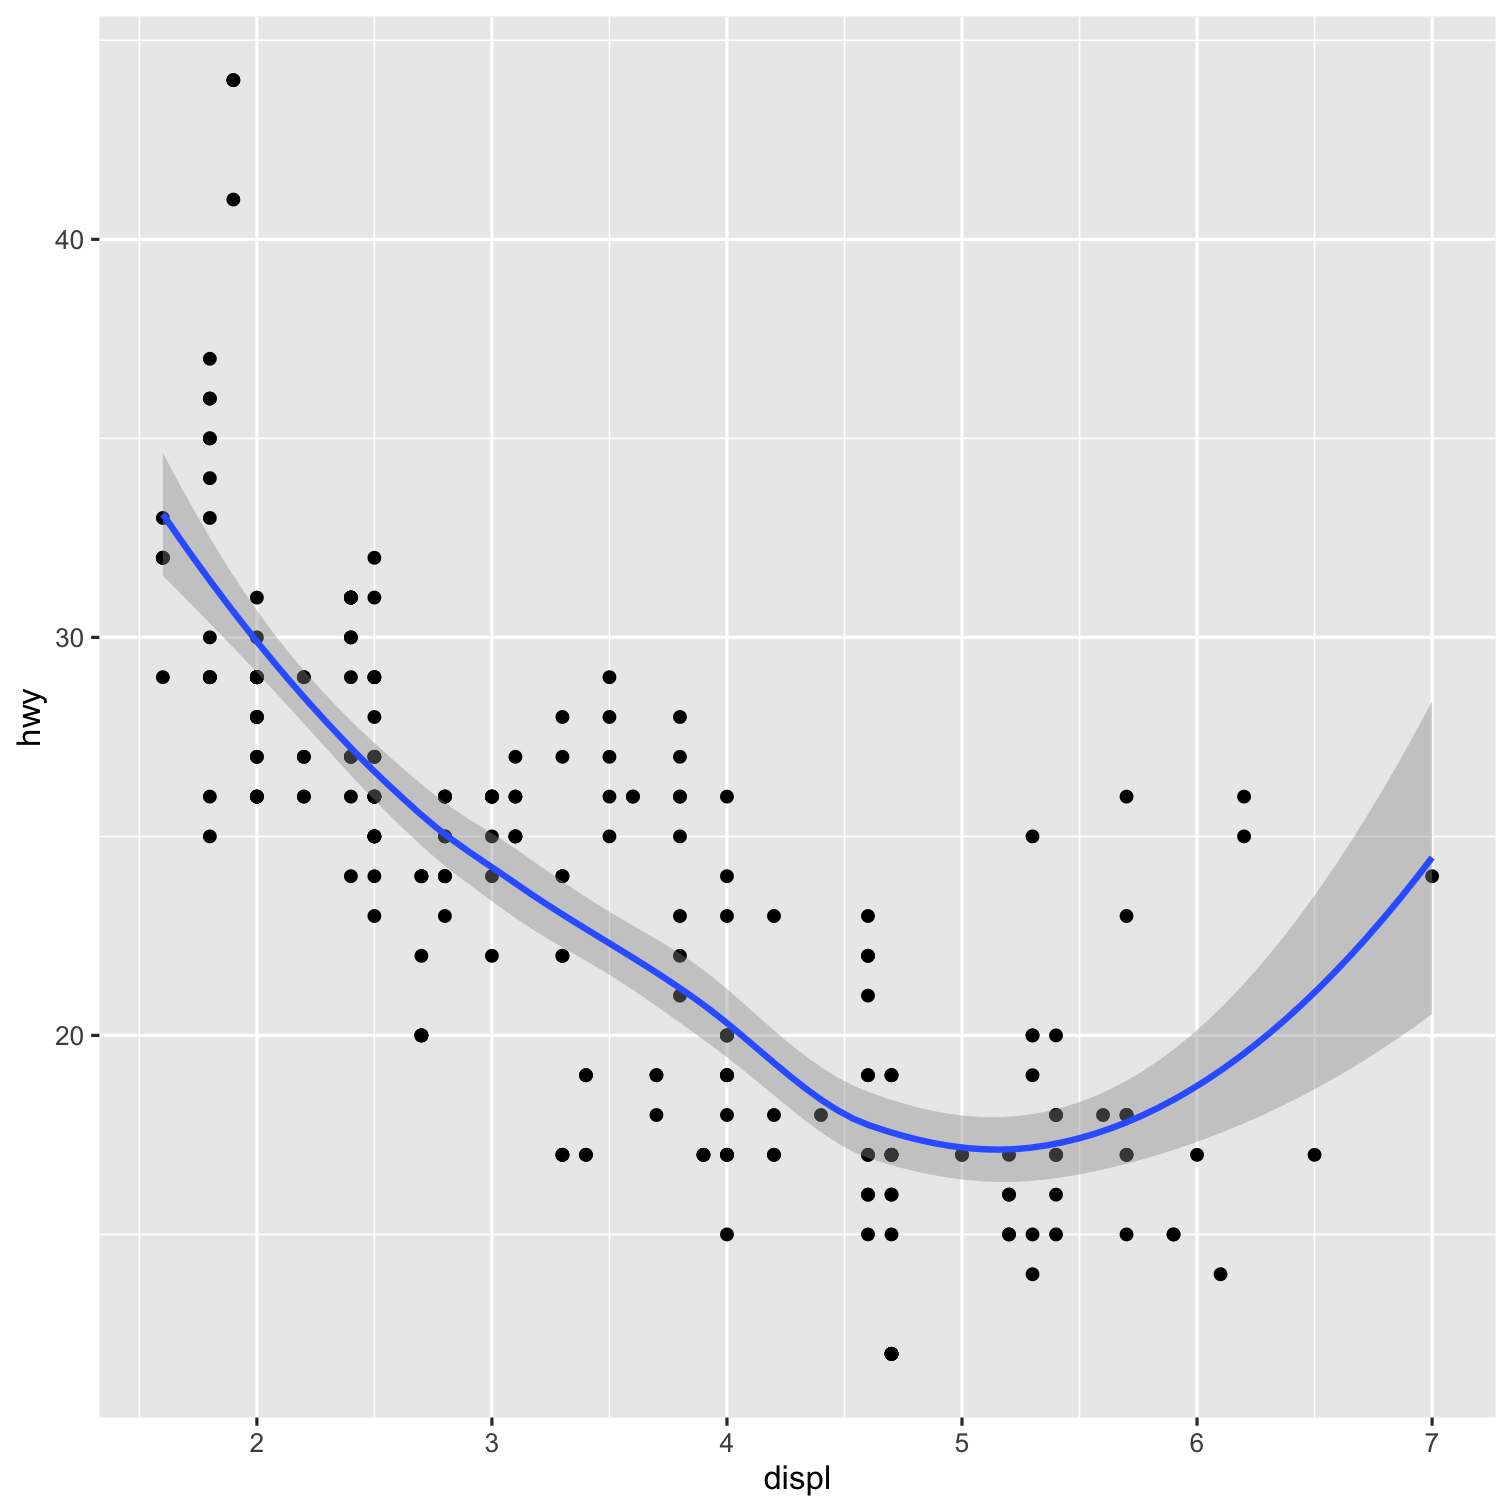
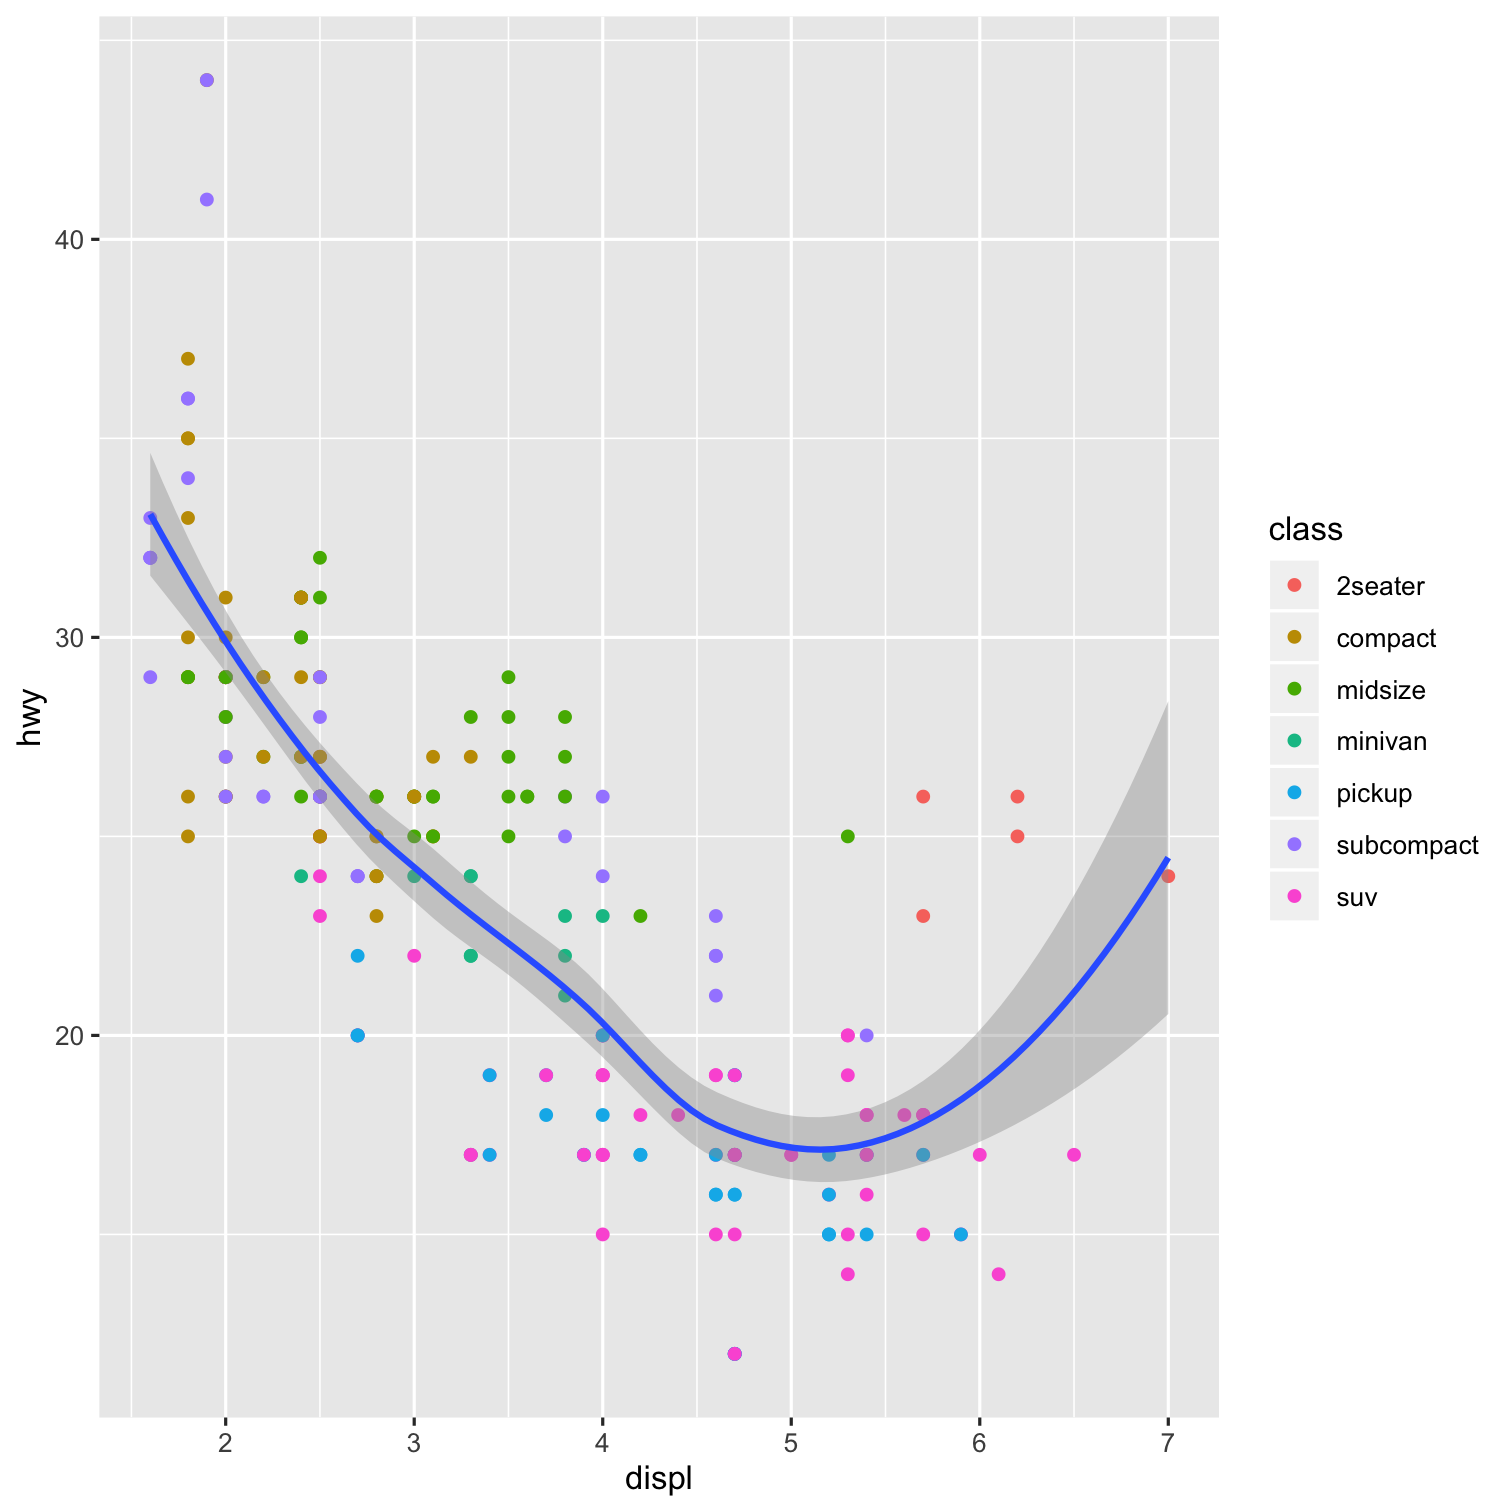
Rescale slide images

diff --git a/static/slides/04-slides.html b/static/slides/04-slides.html
@@ -465,6 +465,27 @@ ggplot(data = mpg)
 .right-plot[
 **Aesthetics** map data to visual elements or parameters
 
+.center[
+![:scale 90%](https://www.dropbox.com/s/e1nvb7x330c7ruk/aes2.png?raw=1)
+]
+]
+
+---
+
+# The Grammar of Graphics (gg): Aesthetics III
+
+.left-code[
+### Data
+### Aesthetics
+
+```r
++ aes()
+```
+]
+
+.right-plot[
+**Aesthetics** map data to visual elements or parameters
+
 - `displ`
 
 - `hwy`
@@ -475,7 +496,7 @@ ggplot(data = mpg)
 
 ---
 
-# The Grammar of Graphics (gg): Aesthetics II
+# The Grammar of Graphics (gg): Aesthetics III
 
 .left-code[
 ### Data
@@ -499,27 +520,7 @@ ggplot(data = mpg)
 
 ---
 
-# The Grammar of Graphics (gg): Aesthetics II
-
-.left-code[
-### Data
-### Aesthetics
-
-```r
-+ aes()
-```
-]
-
-.right-plot[
-**Aesthetics** map data to visual elements or parameters
-
-.center[
-![](https://www.dropbox.com/s/e1nvb7x330c7ruk/aes2.png?raw=1)
-]
-]
----
-
-# The Grammar of Graphics (gg): Aesthetics III
+# The Grammar of Graphics (gg): Aesthetics IV
 
 .left-code[
 ### Data
@@ -757,7 +758,7 @@ ggplot(data = mpg)+
 ggplot(data = mpg)+
   aes(x = displ,
         y = hwy)+
-  geom_point()+
+  geom_point(aes(color = class))+
 * geom_smooth()
 ```
 ]
@@ -1557,7 +1558,7 @@ Less is More:
 # Try to Show One Trend Really Clearly
 
 .center[
-![](https://www.dropbox.com/s/gd9eisleu21lgga/goodfigure.png?raw=1)
+![:scale 70%](https://www.dropbox.com/s/gd9eisleu21lgga/goodfigure.png?raw=1)
 ]
 
 .source[New York Times: ["How Stable Are Democracies? ‘Warning Signs Are Flashing Red’"](https://www.nytimes.com/2016/11/29/world/americas/western-liberal-democracy.html), Nov 29, 2016]
@@ -1567,7 +1568,7 @@ Less is More:
 # Reference: R Studio Makes Great "Cheat Sheet"s! 
 
 .center[
-![](https://www.dropbox.com/s/k7fe3fpe6sc5oq7/ggplot2cheat.png?raw=1)
+![:scale 55%](https://www.dropbox.com/s/k7fe3fpe6sc5oq7/ggplot2cheat.png?raw=1)
 ]
 
 .source[[RStudio: ggplot2 Cheat Sheet](https://www.rstudio.com/wp-content/uploads/2015/03/ggplot2-cheatsheet.pdf)]
@@ -1579,9 +1580,9 @@ On `ggplot2`
 
 - **R Studio's [ggplot2 Cheat Sheet](https://www.rstudio.com/wp-content/uploads/2015/03/ggplot2-cheatsheet.pdf)**
 - **`ggplot2`'s website [reference section](https://ggplot2.tidyverse.org/reference/index.html)**
+- Hadley Wickham's[ R for Data Science book chapter on ggplot2](http://r4ds.had.co.nz/data-visualisation.html)
 - STHDA's [be awesome in ggplot2](http://www.sthda.com/english/wiki/be-awesome-in-ggplot2-a-practical-guide-to-be-highly-effective-r-software-and-data-visualization)
 - r-statistic's [top 50 ggplot2 visualizations](http://r-statistics.co/Top50-Ggplot2-Visualizations-MasterList-R-Code.html)
-- Hadley Wickham's[ R for Data Science book chapter on ggplot2](http://r4ds.had.co.nz/data-visualisation.html)
 
 On data visualization
 
